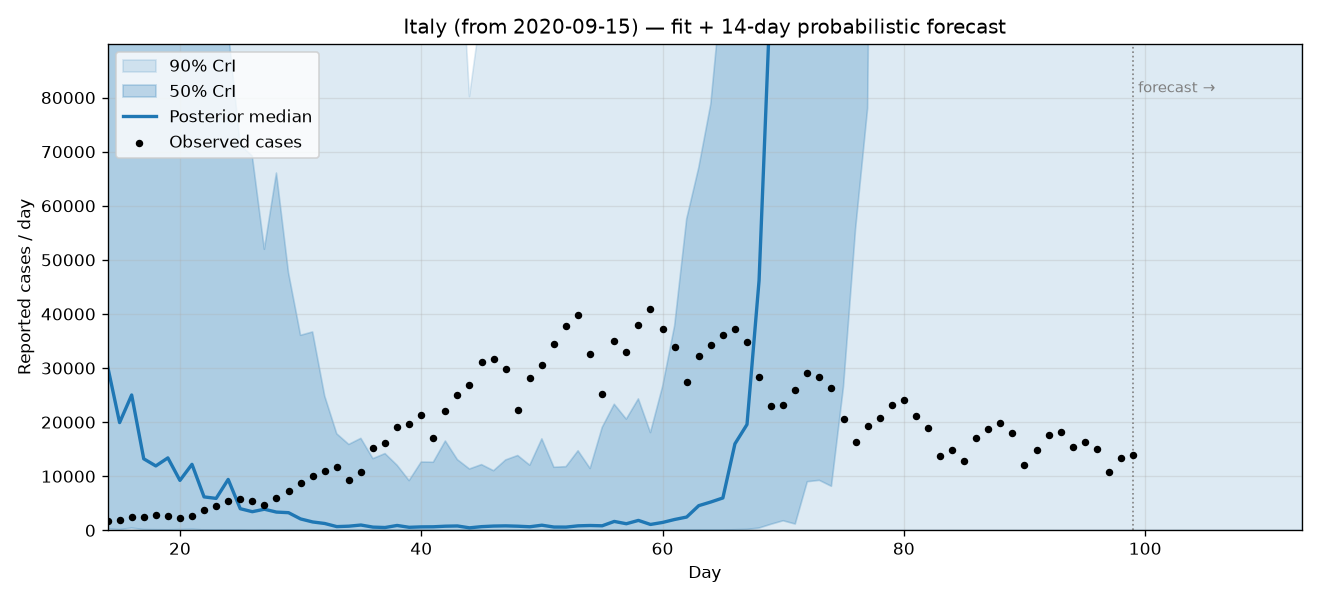
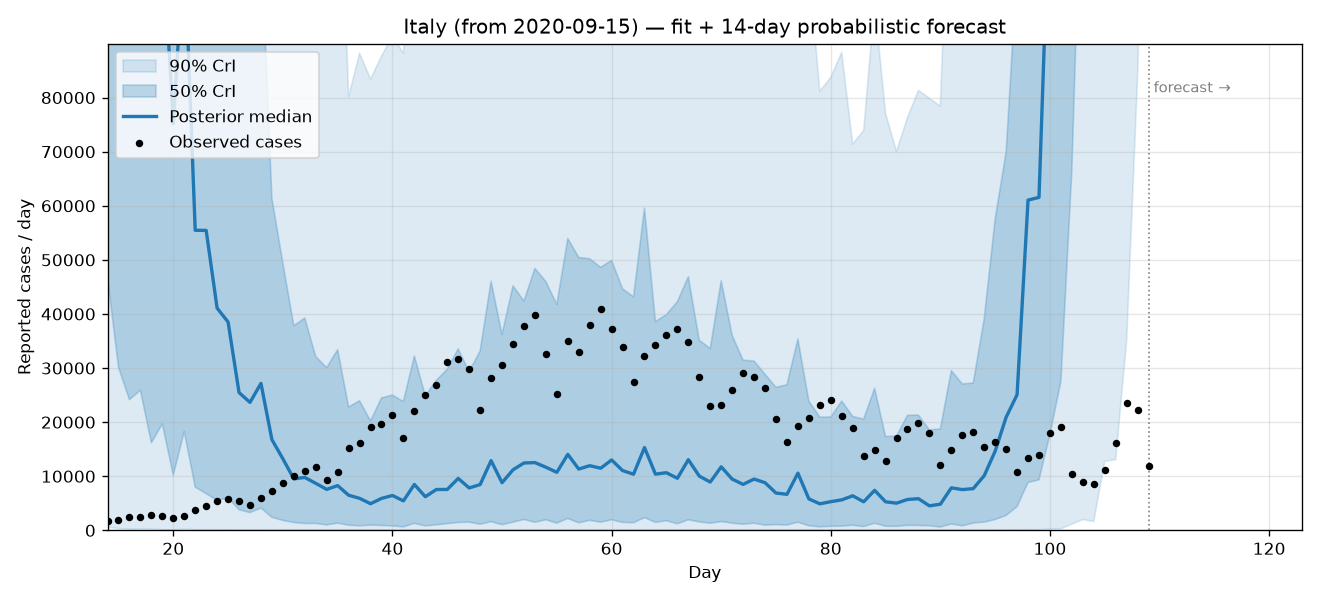
Activate rich observation features only with the deaths anchor
The time-varying ascertainment and inferred generation interval are
under-identified without the deaths stream to pin the infection scale; fitting
cases alone with those extra degrees of freedom made NUTS diverge badly (740+
divergences on Italy, R_t pinned at its ceiling). The model now branches on
whether deaths are supplied:
  - deaths present  -> time-varying rho_t, inferred GI, IFR, deaths likelihood;
  - cases only      -> constant ascertainment, fixed GI (the robust config).
Cases-only now fits cleanly again (2/600 divergences, R_t recovered).

Claude-Session: https://claude.ai/code/session_01JxzHxVWCEDtmXWoGdBLa2z

diff --git a/sota_model.py b/sota_model.py
@@ -163,9 +163,17 @@ def renewal_model(cases, cfg: EpiConfig, horizon: int = 0, gen_pmf=None, rep_pmf
     L = len(gen_pmf)
     seed_days = cfg.seed_days
 
-    # Generation interval: optionally recompute inside the model from a sampled
-    # mean, propagating its uncertainty into R_t (otherwise use the fixed pmf).
-    if cfg.infer_generation_interval:
+    # The richer observation features (time-varying ascertainment, inferred
+    # generation interval) are only well identified when the *deaths* stream is
+    # present to anchor the infection scale. Fitting cases alone with those extra
+    # degrees of freedom is under-identified and makes NUTS diverge, so for
+    # cases-only data we fall back to the robust configuration (constant
+    # ascertainment, fixed generation interval) that the model used before.
+    rich_obs = deaths is not None
+
+    # Generation interval: recompute inside the model from a sampled mean (so its
+    # uncertainty propagates into R_t) only in the rich/deaths-anchored setting.
+    if cfg.infer_generation_interval and rich_obs:
         gen_mean = numpyro.sample("gen_mean", dist.TruncatedNormal(
             cfg.gen_mean, 0.5, low=2.0, high=10.0))
         gen = discretise_gamma_jax(gen_mean, cfg.gen_sd, L)
@@ -231,30 +239,30 @@ def renewal_model(cases, cfg: EpiConfig, horizon: int = 0, gen_pmf=None, rep_pmf
     log_Rt = jnp.clip(log_Rt, jnp.log(0.1), jnp.log(6.0))
     Rt = numpyro.deterministic("Rt", jnp.exp(log_Rt))
 
-    # Time-varying ascertainment: the fraction of infections that become reported
-    # cases changed enormously through 2020 as testing scaled up. We model it as
-    # a slow weekly random walk on the logit scale (interpolated to daily). When
-    # deaths are *also* fit, the death/IFR stream pins the infection scale, so
-    # rho_t becomes properly identified instead of confounded.
-    # Only the ratio (cases/deaths ~ rho/IFR) is identified by the data, so the
-    # separation of rho_t and IFR relies on their priors being tight. Crucially
-    # the ascertainment *drift* is a small FIXED constant, not a free parameter:
-    # if sigma_rho were inferred it blows up and rho_t absorbs all cases/deaths
-    # misfit, decoupling cases from the infection curve and letting R_t run away.
-    # Fixing slow drift forces both streams to share one infection trajectory,
-    # which is what makes rho and IFR jointly identifiable.
+    # Ascertainment (fraction of infections that become reported cases).
     logit_rho0 = numpyro.sample("logit_rho0", dist.Normal(_logit(0.3), 0.5))
-    sigma_rho = cfg.ascertainment_drift
-    rho_eps = numpyro.sample("rho_rw", dist.Normal(jnp.zeros(n_weeks), 1.0))
-    logit_rho_weekly = logit_rho0 + sigma_rho * jnp.cumsum(rho_eps)
-    logit_rho = jnp.interp(jnp.arange(n_steps).astype(jnp.float32), week_nodes, logit_rho_weekly)
-    rho_t = numpyro.deterministic("rho_t", jax.nn.sigmoid(logit_rho))
+    if rich_obs:
+        # Time-varying ascertainment as a slow weekly logit random walk. This is
+        # only identifiable because the joint deaths stream pins the infection
+        # scale. The drift is a small FIXED constant: if it were inferred it
+        # blows up and rho_t absorbs all cases/deaths misfit, decoupling cases
+        # from the infection curve and letting R_t run away.
+        rho_eps = numpyro.sample("rho_rw", dist.Normal(jnp.zeros(n_weeks), 1.0))
+        logit_rho_weekly = logit_rho0 + cfg.ascertainment_drift * jnp.cumsum(rho_eps)
+        logit_rho = jnp.interp(jnp.arange(n_steps).astype(jnp.float32),
+                               week_nodes, logit_rho_weekly)
+        rho_t = numpyro.deterministic("rho_t", jax.nn.sigmoid(logit_rho))
+    else:
+        # Cases-only: a single constant ascertainment (the robust, identifiable
+        # choice — a time-varying rho here is confounded with the infection scale
+        # and makes NUTS diverge).
+        rho_t = numpyro.deterministic("rho_t", jax.nn.sigmoid(logit_rho0) * jnp.ones(n_steps))
 
     # Infection fatality ratio (anchors the absolute infection scale via deaths).
-    # Informative LogNormal prior centred on the configured IFR (pre-vaccine
-    # ~0.68%); sd 0.25 in log-space keeps it within a credible ~0.4–1.1% range
-    # (literature, see PARAMETERS.md) rather than letting it absorb model misfit.
-    ifr = numpyro.sample("ifr", dist.LogNormal(jnp.log(cfg.ifr), 0.25))
+    # Only sampled when deaths are fit; informative LogNormal prior centred on the
+    # configured IFR (pre-vaccine ~0.68%), log-sd 0.25 ⇒ credible ~0.4–1.1% range.
+    if rich_obs:
+        ifr = numpyro.sample("ifr", dist.LogNormal(jnp.log(cfg.ifr), 0.25))
 
     # Day-of-week reporting multiplier (sum-to-zero on the log scale).
     dow_raw = numpyro.sample("dow", dist.Normal(jnp.zeros(7), cfg.dow_prior_sd))
@@ -262,7 +270,8 @@ def renewal_model(cases, cfg: EpiConfig, horizon: int = 0, gen_pmf=None, rep_pmf
 
     # Negative-Binomial over-dispersion (separate for cases and deaths).
     phi = numpyro.sample("phi", dist.Exponential(0.2))
-    phi_d = numpyro.sample("phi_deaths", dist.Exponential(0.2))
+    if rich_obs:
+        phi_d = numpyro.sample("phi_deaths", dist.Exponential(0.2))
 
     # --- Latent renewal process (deterministic recursion via scan) -----------
     def step(window, Rt_t):
@@ -305,15 +314,16 @@ def renewal_model(cases, cfg: EpiConfig, horizon: int = 0, gen_pmf=None, rep_pmf
     numpyro.deterministic("expected_cases", expected)
 
     # Expected deaths = IFR * (infections convolved with infection->death delay)
-    #                   * death-reporting-completeness.
-    death_cdf = jnp.cumsum(death_pmf)
-    completeness_deaths = jnp.where(
-        days < T, death_cdf[jnp.clip(days_until_end, 0, len(death_pmf) - 1)], 1.0)
-    conv_d = jnp.convolve(infections, death_pmf)[:n_steps]
-    expected_d_complete = jnp.clip(ifr * conv_d, 1e-4, None)
-    numpyro.deterministic("expected_deaths_complete", expected_d_complete)
-    expected_d = jnp.clip(expected_d_complete * completeness_deaths, 1e-4, None)
-    numpyro.deterministic("expected_deaths", expected_d)
+    #                   * death-reporting-completeness. Only when deaths are fit.
+    if rich_obs:
+        death_cdf = jnp.cumsum(death_pmf)
+        completeness_deaths = jnp.where(
+            days < T, death_cdf[jnp.clip(days_until_end, 0, len(death_pmf) - 1)], 1.0)
+        conv_d = jnp.convolve(infections, death_pmf)[:n_steps]
+        expected_d_complete = jnp.clip(ifr * conv_d, 1e-4, None)
+        numpyro.deterministic("expected_deaths_complete", expected_d_complete)
+        expected_d = jnp.clip(expected_d_complete * completeness_deaths, 1e-4, None)
+        numpyro.deterministic("expected_deaths", expected_d)
 
     # Negative-Binomial likelihoods on the observed window only.
     if cases is not None: